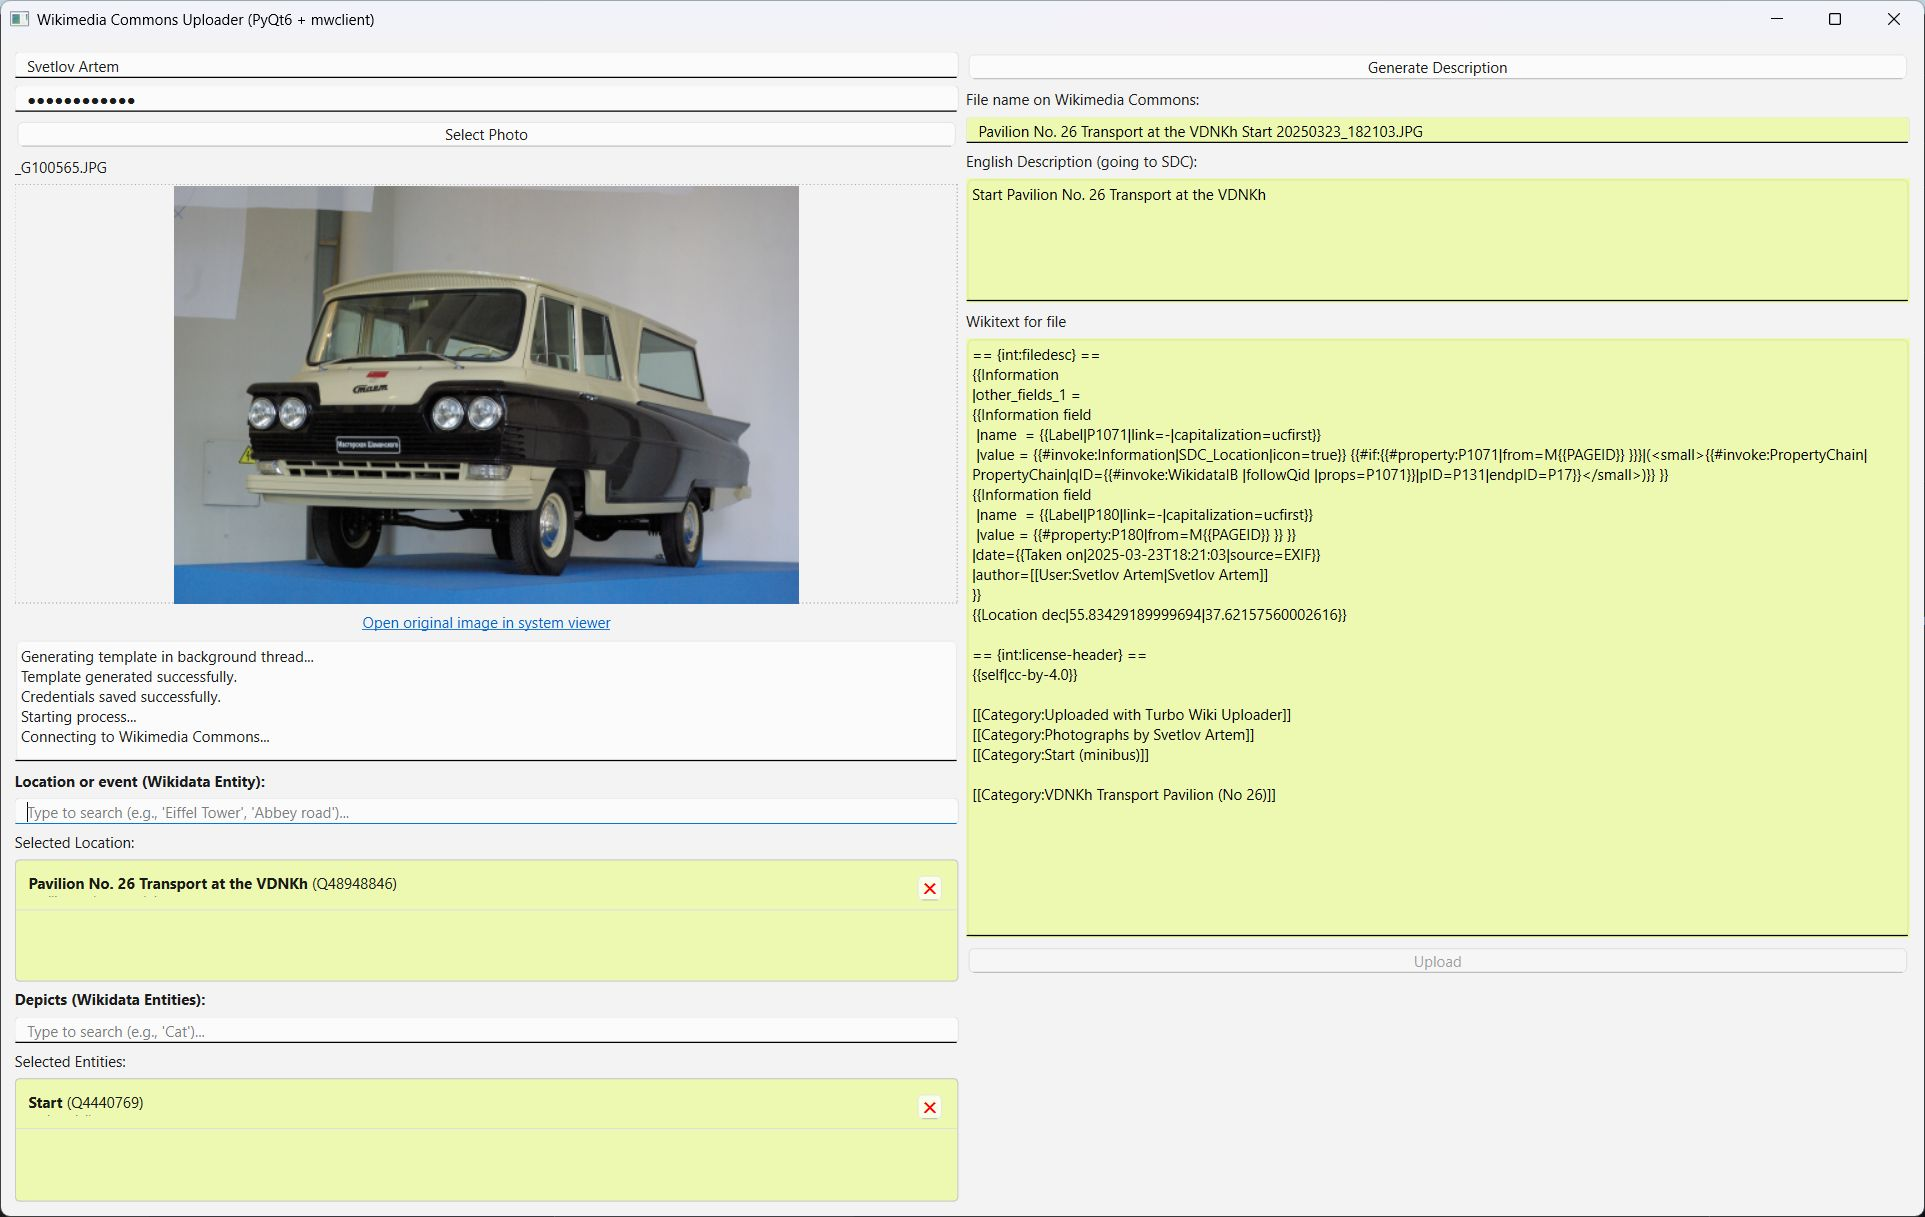
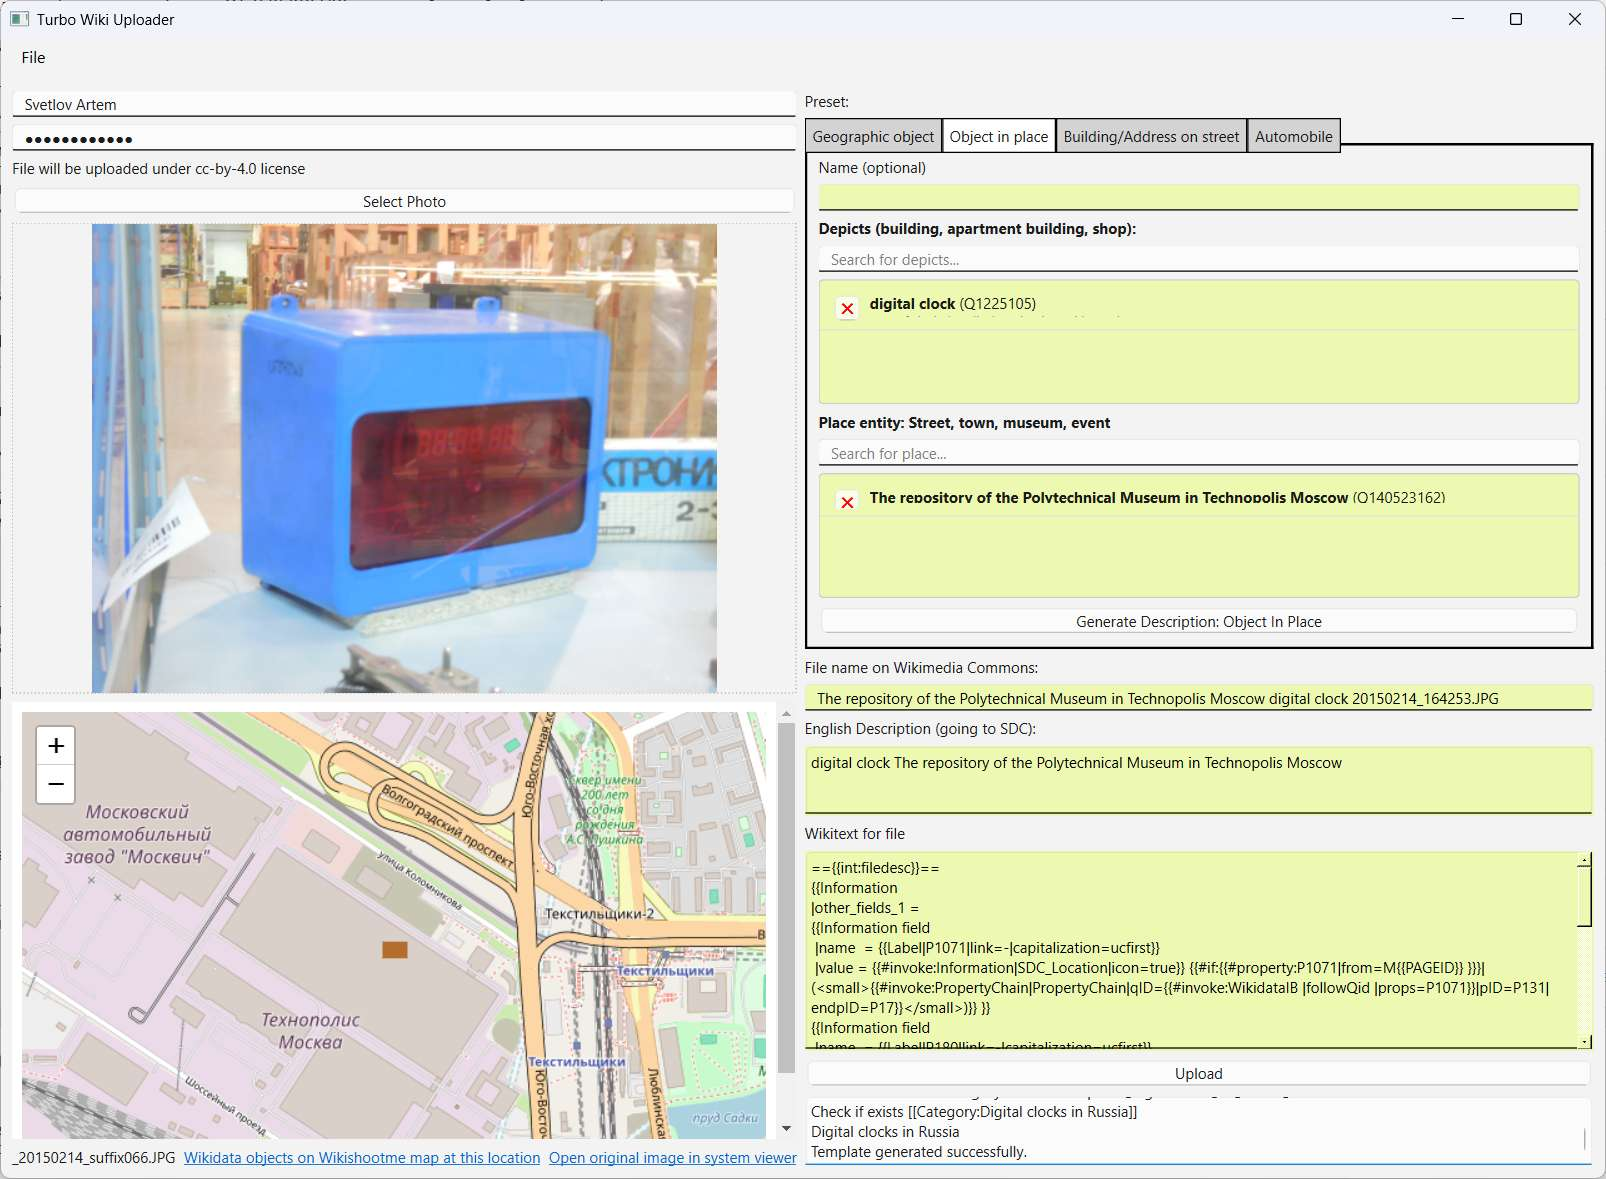
image in readme

diff --git a/README.md b/README.md
@@ -1,4 +1,8 @@
 
 # turbo_wiki_uploader
 GUI app for upload files to Wikipedia's image storage with captions generator
-<img width="1925" height="1217" alt="screenshot02" src="https://github.com/user-attachments/assets/314f728a-87f6-4b7b-a58f-b1730907b37e" />
+![screenshot](screenshot02.jpg)
+
+# install
+
+Download Windows exe file in Releases section
